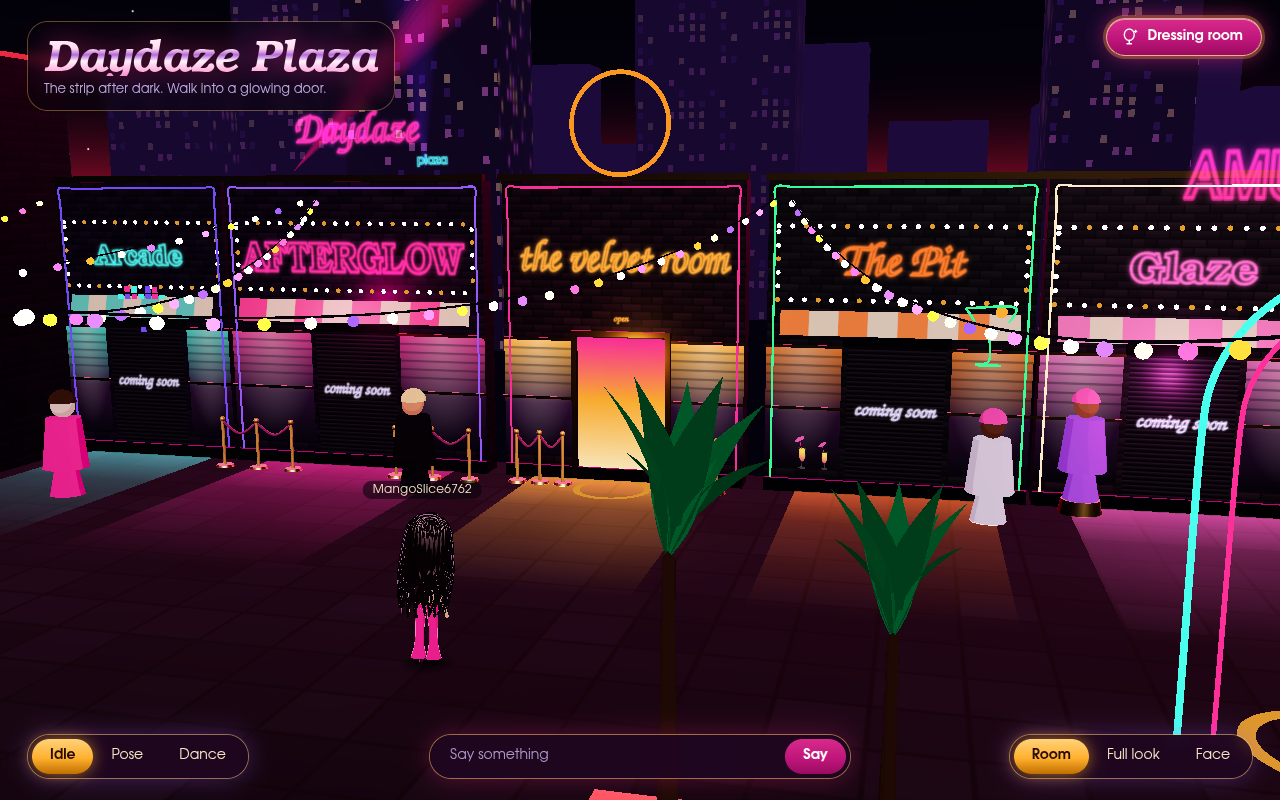
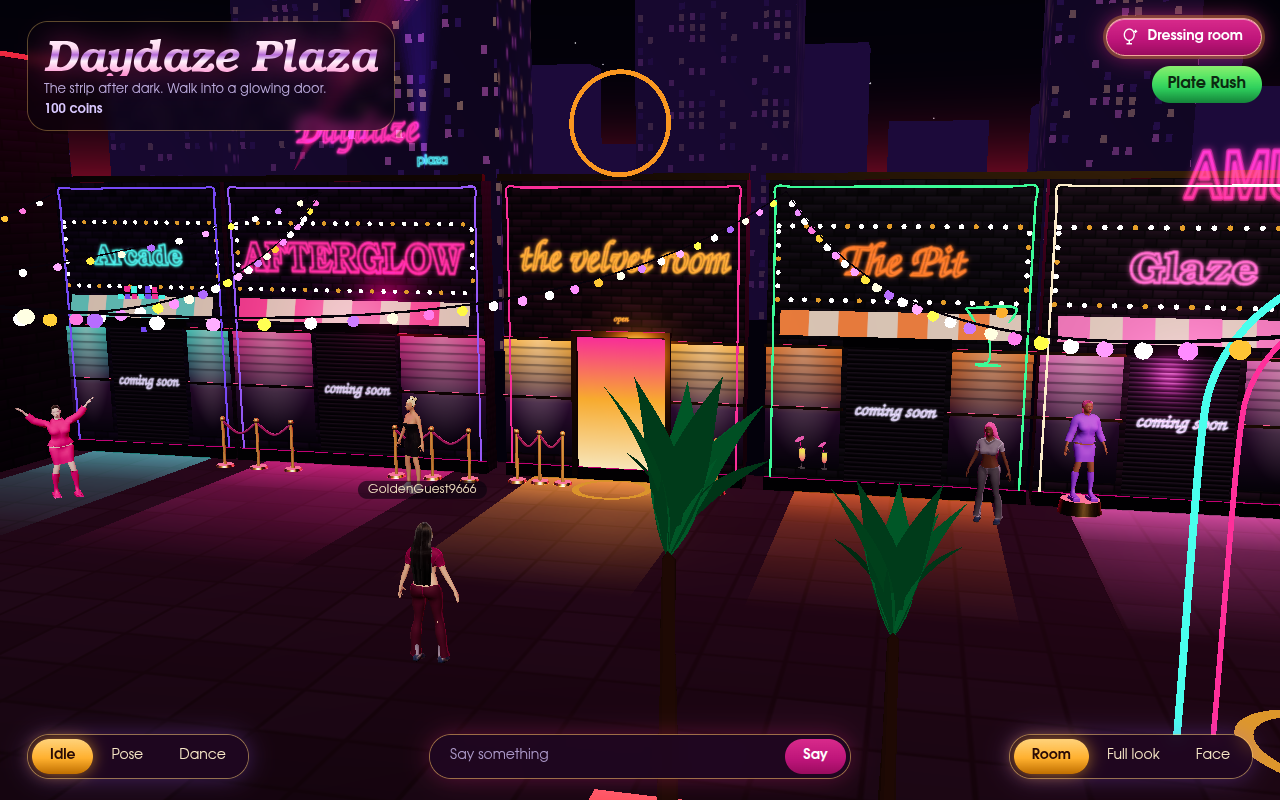
feat(npc): crowds are 3D dolls now
The crowd stand-in renders the full doll; the LOD body keeps a club crowd
cheap (Pulse 115 calls, 215k triangles on the low tier).

diff --git a/src/client/rooms/shared/CrowdFigure.tsx b/src/client/rooms/shared/CrowdFigure.tsx
@@ -1,14 +1,11 @@
-import { useFrame } from "@react-three/fiber";
-import { useMemo, useRef } from "react";
-import * as THREE from "three";
 import type { Look } from "../../../game/look.ts";
-import { useReducedMotion } from "../../motion.ts";
+import { Doll } from "../../avatar/Doll.tsx";
 
 /**
- * A low-poly stand-in for a full doll for background figures: four meshes
- * that share three materials, in the look's skin, hair and outfit colours.
- * A full doll costs about sixty draw calls, so a club can afford only a few.
- * `dance` bobs the figure on the beat; reduced motion holds it still.
+ * A background figure: the full 3D doll, dancing or idling. Far from the
+ * camera the doll drops to its low-poly body, so a club crowd costs a few
+ * draw calls each. Once a cheap stand-in for the 60-call toon doll; the props
+ * stay so every crowd scene keeps working.
  */
 export function CrowdFigure({
   look,
@@ -19,36 +16,5 @@ export function CrowdFigure({
   dance?: boolean;
   seed?: number;
 }) {
-  const body = useRef<THREE.Group>(null);
-  const calm = useReducedMotion();
-  const mats = useMemo(
-    () => ({
-      skin: new THREE.MeshToonMaterial({ color: look.skin }),
-      hair: new THREE.MeshToonMaterial({ color: look.hairColor }),
-      outfit: new THREE.MeshToonMaterial({ color: look.outfitColor }),
-    }),
-    [look.skin, look.hairColor, look.outfitColor],
-  );
-  useFrame(({ clock }) => {
-    if (!body.current || !dance || calm) return;
-    const t = clock.elapsedTime * 4 + seed;
-    body.current.position.y = Math.abs(Math.sin(t)) * 0.06;
-    body.current.rotation.z = Math.sin(t * 0.5) * 0.06;
-  });
-  return (
-    <group ref={body}>
-      <mesh position={[0, 0.95, 0]} material={mats.outfit}>
-        <cylinderGeometry args={[0.3, 0.4, 0.9, 10]} />
-      </mesh>
-      <mesh position={[0, 0.25, 0]} material={mats.outfit}>
-        <cylinderGeometry args={[0.2, 0.3, 0.5, 10]} />
-      </mesh>
-      <mesh position={[0, 1.6, 0]} material={mats.skin}>
-        <sphereGeometry args={[0.2, 12, 10]} />
-      </mesh>
-      <mesh position={[0, 1.67, -0.02]} material={mats.hair}>
-        <sphereGeometry args={[0.23, 12, 8, 0, Math.PI * 2, 0, Math.PI / 2]} />
-      </mesh>
-    </group>
-  );
+  return <Doll look={look} mood={dance ? "dance" : "idle"} seed={seed} />;
 }
